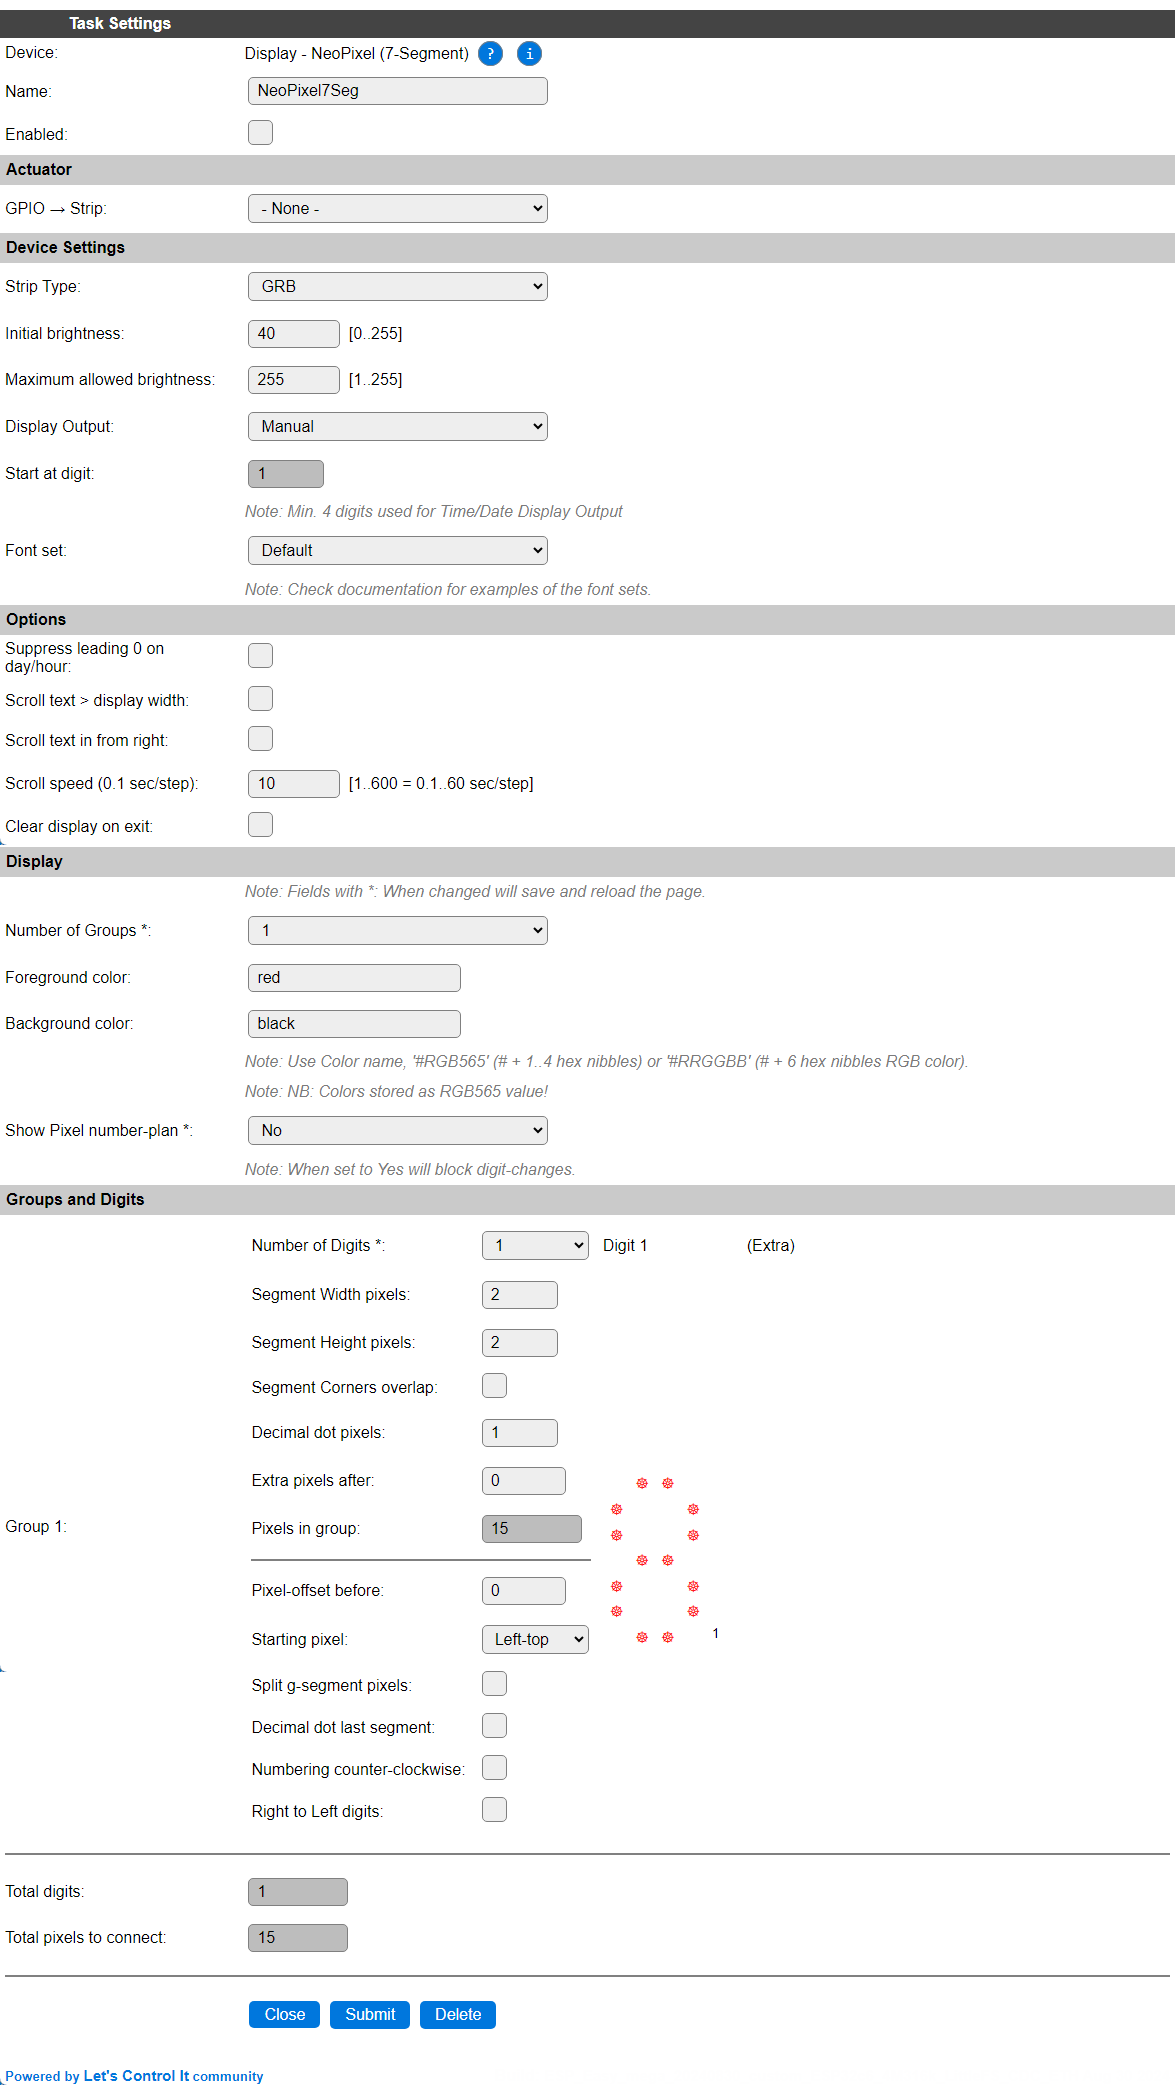
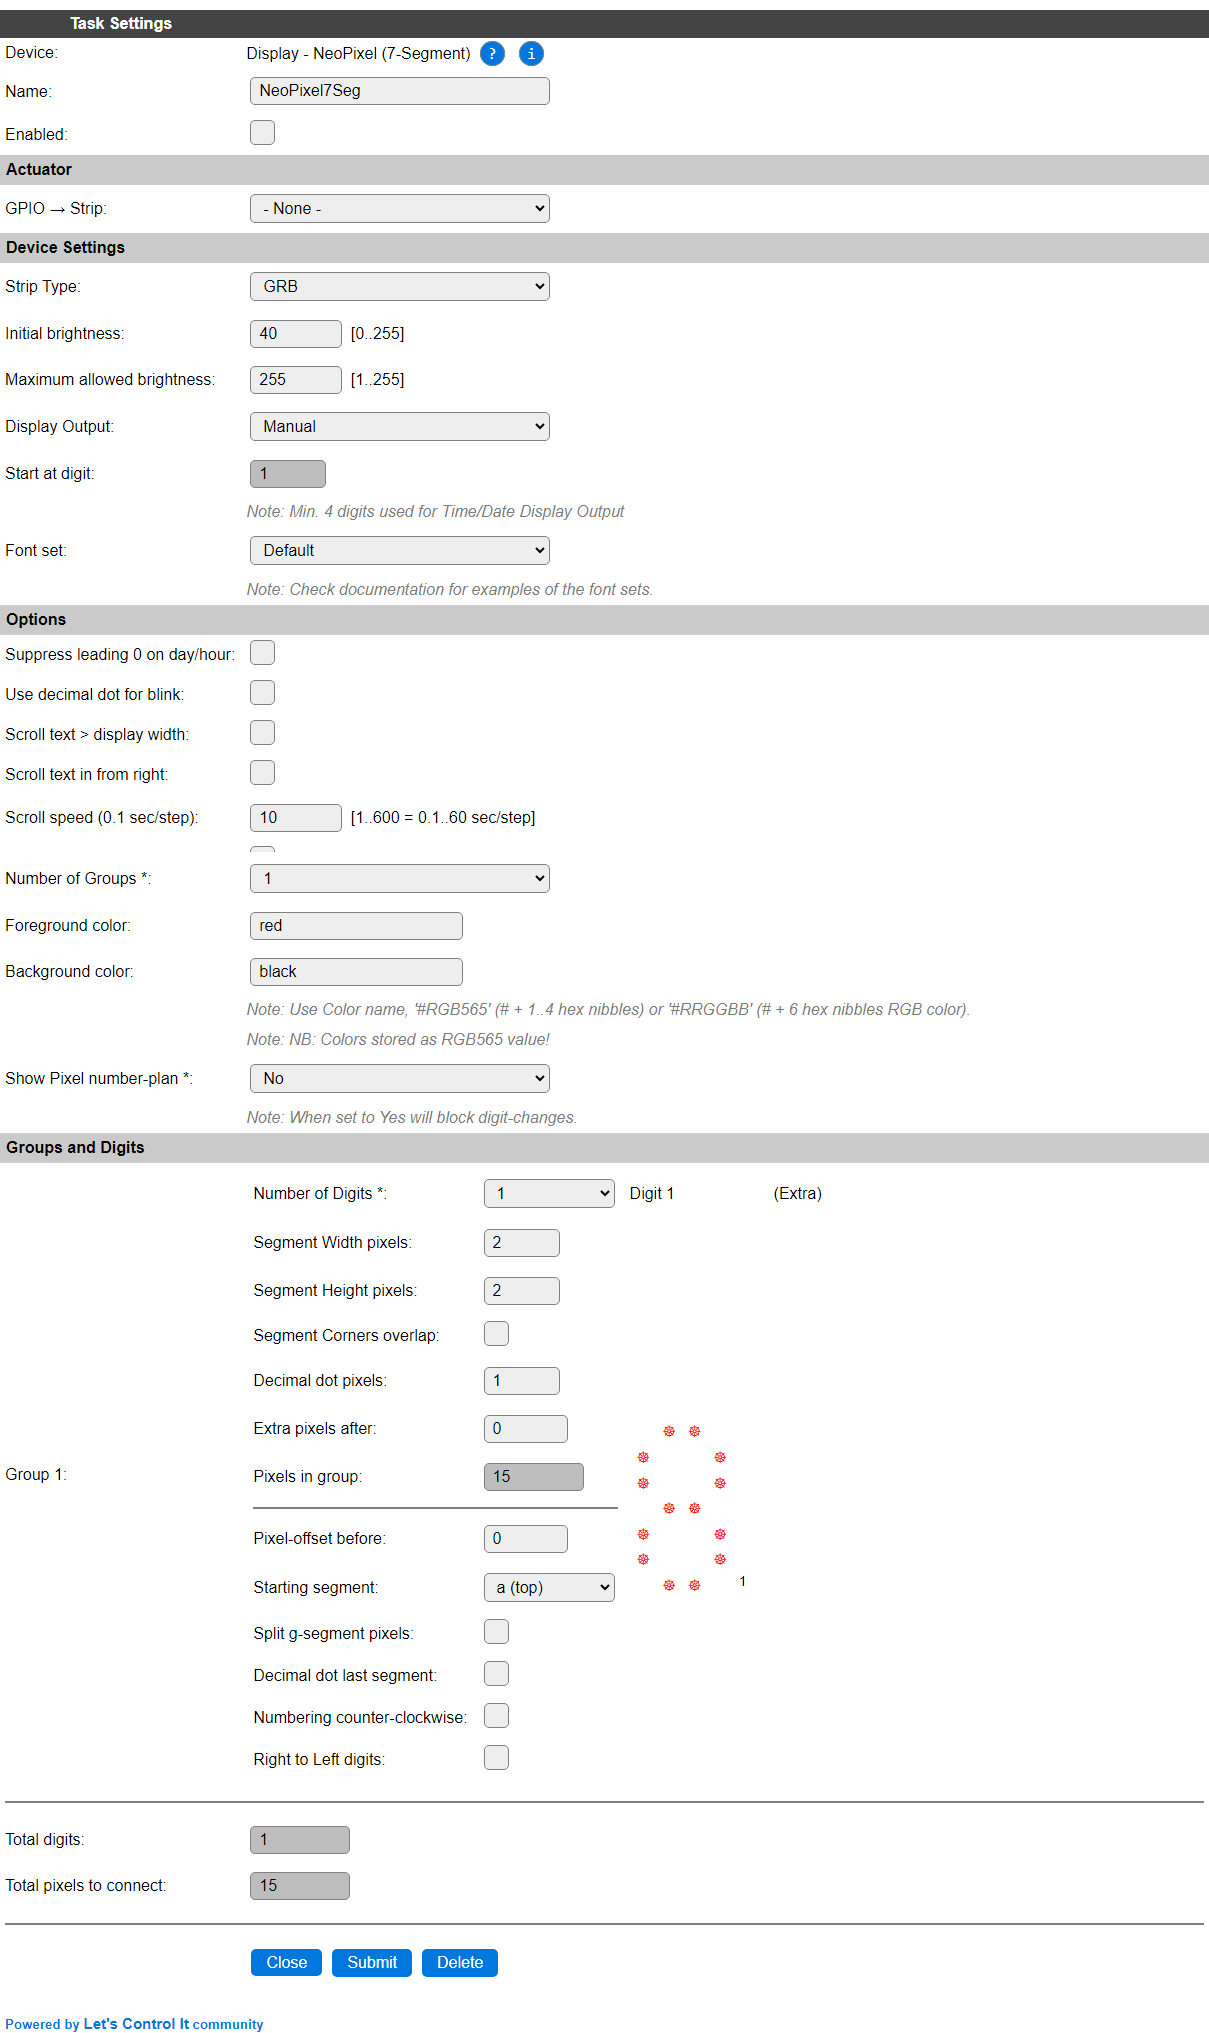
[P165] Update documentation

diff --git a/docs/source/Plugin/P165.rst b/docs/source/Plugin/P165.rst
@@ -126,6 +126,8 @@ Options
 
 * **Suppress leading 0 on day/hour**: When enabled, will show the hours of the time and days of the date without a leading 0 when < 10.
 
+* **Use decimal dot for blink**: When enabled will use the decimal dot on the second digit (with offset accounted for) for blinking, when no extra pixels are available.
+
 * **Scroll text > display width**: Normally the ``7dtext,<text>`` command only show the left n characters the display can hold. This option enables the Scroll Text feature, that will scroll text sent using the ``7dtext`` or ``7dbin`` commands from right to left when the content is longer than the display can show at once.
 
 * **Scroll text in from right**: Normally the Scroll Text feature starts with the display filled with the left part of the text to scroll, with this option enabled, the display starts empty and the text is scrolled in from the right side of the display to the left, until all text is scrolled off. Then the scrolling restarts.
@@ -181,13 +183,25 @@ These options determine the number-plan of the pixels in this group:
 
 * **Pixel-offset before**: The number of pixels to skip before the first digit is planned. Sometimes used to 'fix' the signal level for the pixels if the strip is connected to the ESP without a level converter, but that's an unreliable fix, so a level converter should best be used when powering the pixels with the 'suggested' (strongly advised) 5V. These pixels can also be used as an extra indicator, as the ``7dbefore`` command can be used to set these pixels to a color.
 
-* **Starting pixel**: By default the number-plan starts at the left-top pixel of a digit, and flows clock-wise along all pixels for a single digit. With this setting you can select to start at the right-top of the digit, for assigning the number-plan. (See remark when using **counter-clockwise** option, below.)
+* **Starting segment**: By default the number-plan starts at the left pixel of the top segment (a) of a digit, and flows clock-wise along all pixels for a single digit. With this setting you can select to start at the top of the top-right segment (b) or the left of the center-segment (g), when assigning the number-plan. (See remark when using **counter-clockwise** option, below.)
+
+.. image:: P165_StartingSegmentOptions.png
+
+* *a (top)*: The default starting segment.
+
+* *b/f (right/left)*: For the default clockwise numbering, the b-segment is the first segment to be numbered. Starting point is the f-segment when **Numbering counter-clockwise** is enabled.
+
+* *g (center)*: This is a very optimal numbering plan, as the segment-order is g, c, dp, d, e, f, a, b, and as it ends at the b-segment the next digit can easily be coupled to this one. When this option is selected, the **Split g-segment pixels** and **Decimal dot last segment** options are disabled (and ignored), as they don't make sense to be used.
+
+.. image:: P165_StartingSegmentOption-g.png
+
+|
 
 * **Split g-segment pixels**: The default number-plan assigns pixel-indexes to the g-segment between the e and f segment. When using a larger number of Width pixels, wiring the g-segment can be challenging. When enabled, this option assigns pixel-indexes to the right-half set of pixels between the b and c segment, and the remaining pixels between the e and f segment.
 
 * **Decimal dot last segment**: Similar to the g-segment, also the dp-segment can be challening to wire, as by default the f-segment is assigned the last pixel-index. So the default here is to assign pixel-indexes to the dp-segment between the c and d-segments. If you explicitly want to have these dp-pixels assigned as the last pixel-indexes, this option can be enabled.
 
-* **Numbering counter-clockwise**: By default the pixel-indexes are assigned in a clock-wise order, but if your wiring-plan works better when numbering counter-clockwise, this is the setting to enable. This also changes how the **Starting pixel** is interpreted: Top-left will start from the f-segment, and end with the a-segment, and top-right will start assigning pixel-indexes from the right side of the a-segment, and work down the f, g, e, d, dp, c and b segments.
+* **Numbering counter-clockwise**: By default the pixel-indexes are assigned in a clock-wise order, but if your wiring-plan works better when numbering counter-clockwise, this is the setting to enable. This also changes how the **Starting pixel** is interpreted: Top-left will start from the f-segment, and end with the a-segment, and top-right will start assigning pixel-indexes from the right side of the a-segment, and work down the f, g, e, d, dp, c and b segments. When this option is used with the **Starting segment** set to **g (center)**, also the **Right to left digits** option should best be enabled too, for most optimal result
 
 * **Right to Left digits**: When creating larger displays, or building a 2 1/2 or 3 1/2 digit display for displaying f.e. numbers up to 100 or 1000, starting the digits at the left is not efficient, as the entire left digit will get pixel-indexes assigned. When using the Right to Left digits option, the digits will be virtually reverted, and pixel-indexes assigned from the right digit to the left digit. The extra pixels, not needed to show anything else than ``1`` can be left out of the display. An example config is included below, showing this.
 
